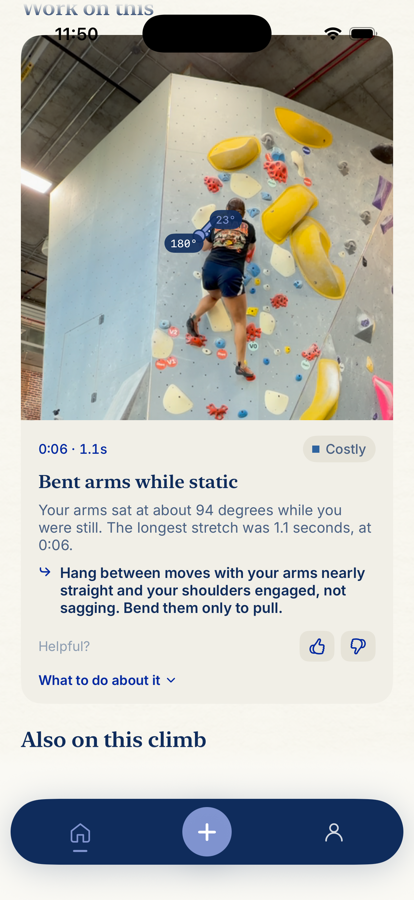
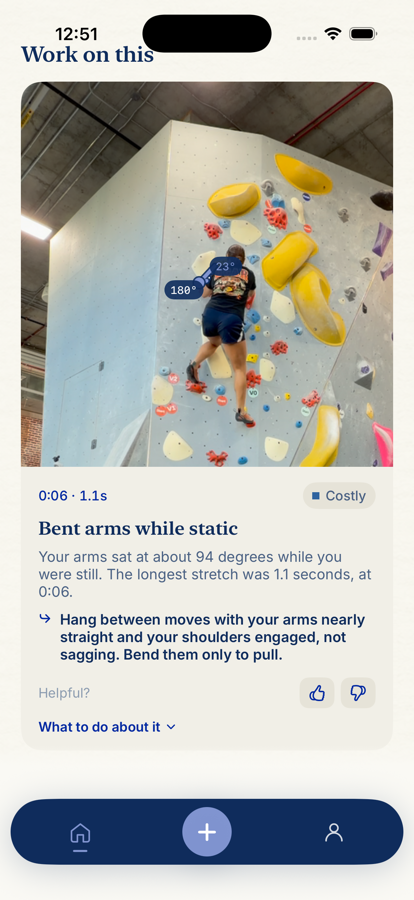
A cleaner picture of the finding, and no image used twice
The finding card is the centrepiece of the page and its header was cut
off. Recaptured whole, and the two-row table folded into one so nothing
on the page appears in two places.

diff --git a/README.md b/README.md
@@ -31,32 +31,24 @@ Trace tracked drawn over them. The analysis runs on the phone, in a few seconds.
 
 <table>
 <tr>
-<td width="50%"><img src="docs/screens/analysis.png" width="320"></td>
-<td width="50%">
+<td width="46%"><img src="docs/screens/analysis.png" width="300"></td>
+<td width="54%">
 
-**On the footage**
-
-The skeleton, the centre of mass, and the elbow angles as they change, scrubbable
-frame by frame at quarter speed.
+**On the footage.** The skeleton, the centre of mass, and the elbow angles as they
+change, scrubbable frame by frame at quarter speed.
 
 A clip Trace could not see clearly enough is told so rather than coached: below 55
 percent tracking confidence it draws nothing and says nothing. Confidently wrong
 coaching is the failure mode that kills this product.
 
-</td>
-</tr>
-<tr>
-<td width="50%"><img src="docs/screens/finding.png" width="320"></td>
-<td width="50%">
+**One thing to work on.** Each finding names what was measured, freezes the frame it
+happened on, marks the joints it is about, and gives the correction in one sentence.
+Worst first, and that is the card in the middle of the three above.
 
-**One thing to work on**
-
-Each finding names what was measured, freezes the frame it happened on, marks the
-joints it is about, and gives the correction in one sentence. Worst first.
-
-Thresholds were set against real climbing, not synthetic fixtures: on five tracked
+Thresholds come from real climbing rather than synthetic fixtures. On five tracked
 clips a resting arm reads about 150 degrees in the picture, because an arm reaching
-to the wall is foreshortened from in front, so "bent arms" starts at 135.
+to the wall is foreshortened from in front, so "bent arms" starts at 135 and stops
+firing on every clean climb.
 
 </td>
 </tr>
